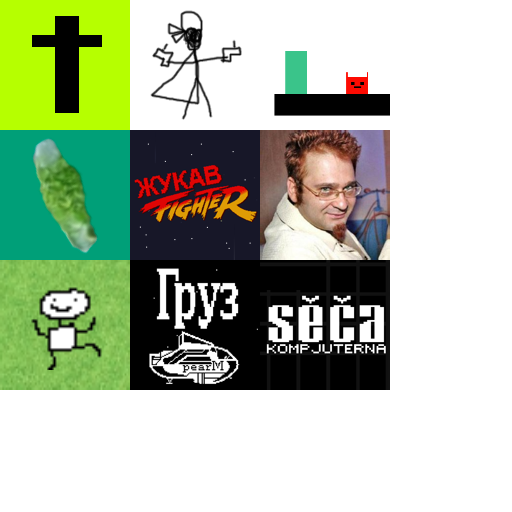
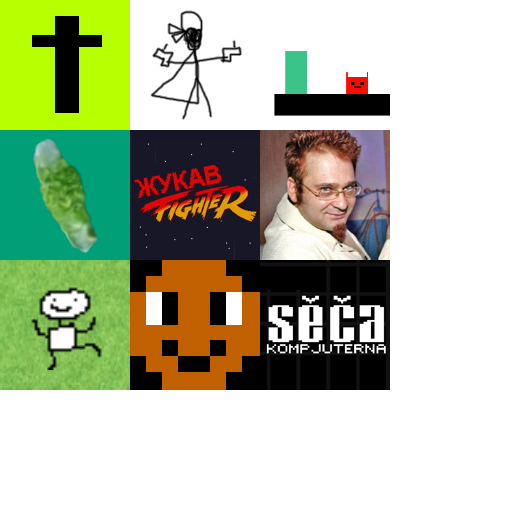
nunu

Changed region(s): [[0.25, 0.5, 0.5312, 0.7812]]

diff --git a/zhukarcade/data.js b/zhukarcade/data.js
@@ -1,1 +1,1 @@
-{"project": [null,"Layout 1",[[0,true,false,false,false,false,false,false,false,false],[1,true,false,false,false,false,false,false,false,false],[2,false,true,true,true,true,true,true,true,false]],[["t0",2,false,[],1,0,null,[["Default",5,false,1,0,false,8729553413497399,[["images/black-sheet0.png",155,0,0,250,250,1,0.5,0.5,[],[],4]]]],[["Fade",3,7585447175772735]],false,false,7387607240222709,[],null],["t1",2,false,[5264834202259024],0,0,null,[["Default",5,false,1,0,false,7266523906679442,[["images/logo-sheet0.png",10182,0,0,693,76,1,0.5007215142250061,0.5,[],[],0]]]],[],false,false,3768893213110195,[],null],["t2",2,false,[7465671858647733],0,0,null,[["Default",0,false,1,0,false,9752546712139465,[["images/button-sheet0.png",112195,1,1,128,128,1,0.5,0.5,[],[],0],["images/button-sheet0.png",112195,131,1,128,128,1,0.5,0.5,[],[],0],["images/button-sheet0.png",112195,261,1,128,128,1,0.5,0.5,[],[],0],["images/button-sheet0.png",112195,1,131,128,128,1,0.5,0.5,[],[],0],["images/button-sheet0.png",112195,131,131,128,128,1,0.5,0.5,[],[],0],["images/button-sheet0.png",112195,261,131,128,128,1,0.5,0.5,[],[],0],["images/button-sheet0.png",112195,1,261,128,128,1,0.5,0.5,[],[],0],["images/button-sheet0.png",112195,131,261,128,128,1,0.5,0.5,[],[],0],["images/button-sheet0.png",112195,261,261,128,128,1,0.5,0.5,[],[],0],["images/button-sheet1.png",64617,1,1,128,128,1,0.5,0.5,[],[],0],["images/button-sheet1.png",64617,131,1,128,128,1,0.5,0.5,[],[],0],["images/button-sheet1.png",64617,261,1,128,128,1,0.5,0.5,[],[-0.4296875,-0.4296875,0,-0.5,0.4296879768371582,-0.4296875,0.5,0,0.4296879768371582,0.4296879768371582,0,0.5,-0.4296875,0.4296879768371582,-0.5,0],0],["images/button-sheet1.png",64617,1,131,128,128,1,0.5,0.5,[],[-0.4296875,-0.4296875,0,-0.5,0.4296879768371582,-0.4296875,0.5,0,0.4296879768371582,0.4296879768371582,0,0.5,-0.4296875,0.4296879768371582,-0.5,0],0],["images/button-sheet1.png",64617,131,131,128,128,1,0.5,0.5,[],[-0.4296875,-0.4296875,0,-0.5,0.4296879768371582,-0.4296875,0.5,0,0.4296879768371582,0.4296879768371582,0,0.5,-0.4296875,0.4296879768371582,-0.5,0],0]]]],[],false,false,9980455744818507,[],null],["t3",0,false,[],0,0,null,null,[],false,false,3950556047889374,[],null,[1]],["t4",1,false,[],0,0,null,null,[],false,false,1058401059279333,[],null,[]],["t5",2,false,[],0,0,null,[["Default",5,false,1,0,false,129155538360011,[["images/sprite-sheet0.png",368710,0,0,512,384,1,0.5,0.5,[],[],1]]]],[],false,false,1081738395218617,[],null]],[],[["Layout 1",1024,1024,true,"Event sheet 1",1530669330642996,[["Layer 0",0,3330524870586053,true,[0,0,0],false,1,1,1,false,false,1,0,0,[[[512,96,0,693,76,0,0,1,0.5007215142250061,0.5,0,0,[]],1,1,[[0]],[],[0,"Default",0,1]],[[192,224,0,96,96,0,0,1,0.5,0.5,0,0,[]],2,2,[["https://ashesandburden.netlify.com"]],[],[0,"Default",0,1]],[[320,224,0,96,96,0,0,1,0.5,0.5,0,0,[]],2,3,[["https://sircowboy.netlify.com"]],[],[0,"Default",1,1]],[[448,224,0,96,96,0,0,1,0.5,0.5,0,0,[]],2,4,[["https://platformer1.netlify.com/"]],[],[0,"Default",2,1]],[[576,224,0,96,96,0,0,1,0.5,0.5,0,0,[]],2,5,[["https://virtulitee.netlify.com/"]],[],[0,"Default",3,1]],[[704,224,0,96,96,0,0,1,0.5,0.5,0,0,[]],2,6,[["https://zhukfighter.netlify.com"]],[],[0,"Default",4,1]],[[832,224,0,96,96,0,0,1,0.5,0.5,0,0,[]],2,7,[["https://trah.netlify.com/"]],[],[0,"Default",5,1]],[[192,352,0,96,96,0,0,1,0.5,0.5,0,0,[]],2,8,[["https://debils.netlify.com/"]],[],[0,"Default",6,1]],[[320,352,0,96,96,0,0,1,0.5,0.5,0,0,[]],2,9,[["https://competent-meninsky-d45b45.netlify.com/"]],[],[0,"Default",7,1]],[[448,352,0,96,96,0,0,1,0.5,0.5,0,0,[]],2,12,[["http://ddnvd.ru/secha/"]],[],[0,"Default",8,1]],[[576,352,0,96,96,0,0,1,0.5,0.5,0,0,[]],2,13,[["http://ddnvd.ru/sas/"]],[],[0,"Default",9,1]],[[512,864,0,384,288,0,0,1,0.5,0.5,0,0,[]],5,14,[],[],[1,"Default",0,1]],[[704,352,0,96,96,0,0,1,0.5,0.5,0,0,[]],2,15,[["http://ddnvd.ru/chinese/"]],[],[0,"Default",10,1]],[[832,352,0,96,96,0,0,1,0.5,0.5,0,0,[]],2,16,[["http://ddnvd.ru/rmg/"]],[],[0,"Default",11,1]],[[192,480,0,96,96,0,0,1,0.5,0.5,0,0,[]],2,17,[["http://ddnvd.ru/aabo/"]],[],[0,"Default",12,1]],[[320,480,0,96,96,0,0,1,0.5,0.5,0,0,[]],2,18,[["http://ddnvd.ru/shobaka/"]],[],[0,"Default",13,1]]],[]],["Layer 1",1,8749605358381316,true,[255,255,255],true,1,1,1,false,false,1,0,0,[[[515,515,0,1024,1024,0,0,1,0.5,0.5,0,0,[]],0,0,[],[[1,0,0,1,1]],[0,"Default",0,1]]],[]]],[],[]]],[["Event sheet 1",[[0,null,false,null,6743612669005715,[[3,4,null,1,false,false,false,1880414996016881,false,[[4,2]]]],[[4,5,null,4786341105401476,false,[[1,[21,2,true,null,0]],[3,0]]]]],[0,null,false,null,2494595899420115,[[3,4,null,1,false,false,false,8036022015270609,false,[[4,1]]]],[[1,6,null,493753392889241,false,[[10,0],[7,[0,1]]]]]],[0,null,false,null,2414228189421093,[[1,7,null,0,false,false,false,4525638202724129,false,[[10,0],[8,0],[7,[0,13]]]]],[[1,6,null,152056757639573,false,[[10,0],[7,[0,1]]]],[5,8,null,4306711313903181,false,[[3,1]]]]]]]],[],"media/",false,1024,1024,4,true,true,true,"1.1",true,false,2,0,19,false,true,1,true,"zhuk arcade",0,[]]}
+{"project": [null,"Layout 1",[[0,true,false,false,false,false,false,false,false,false],[1,true,false,false,false,false,false,false,false,false],[2,false,true,true,true,true,true,true,true,false]],[["t0",2,false,[],1,0,null,[["Default",5,false,1,0,false,8729553413497399,[["images/black-sheet0.png",155,0,0,250,250,1,0.5,0.5,[],[],4]]]],[["Fade",3,7585447175772735]],false,false,7387607240222709,[],null],["t1",2,false,[5264834202259024],0,0,null,[["Default",5,false,1,0,false,7266523906679442,[["images/logo-sheet0.png",10182,0,0,693,76,1,0.5007215142250061,0.5,[],[],0]]]],[],false,false,3768893213110195,[],null],["t2",2,false,[7465671858647733],0,0,null,[["Default",0,false,1,0,false,9752546712139465,[["images/button-sheet0.png",105800,1,1,128,128,1,0.5,0.5,[],[],0],["images/button-sheet0.png",105800,131,1,128,128,1,0.5,0.5,[],[],0],["images/button-sheet0.png",105800,261,1,128,128,1,0.5,0.5,[],[],0],["images/button-sheet0.png",105800,1,131,128,128,1,0.5,0.5,[],[],0],["images/button-sheet0.png",105800,131,131,128,128,1,0.5,0.5,[],[],0],["images/button-sheet0.png",105800,261,131,128,128,1,0.5,0.5,[],[],0],["images/button-sheet0.png",105800,1,261,128,128,1,0.5,0.5,[],[],0],["images/button-sheet0.png",105800,131,261,128,128,1,0.5,0.5,[],[-0.3828125,-0.3828125,0,-0.5,0.3671875,-0.3671875,0.5,0,0.3671875,0.3671875,0,0.5,-0.3671875,0.3671875,-0.5,0],0],["images/button-sheet0.png",105800,261,261,128,128,1,0.5,0.5,[],[],0],["images/button-sheet1.png",64617,1,1,128,128,1,0.5,0.5,[],[],0],["images/button-sheet1.png",64617,131,1,128,128,1,0.5,0.5,[],[],0],["images/button-sheet1.png",64617,261,1,128,128,1,0.5,0.5,[],[-0.4296875,-0.4296875,0,-0.5,0.4296879768371582,-0.4296875,0.5,0,0.4296879768371582,0.4296879768371582,0,0.5,-0.4296875,0.4296879768371582,-0.5,0],0],["images/button-sheet1.png",64617,1,131,128,128,1,0.5,0.5,[],[-0.4296875,-0.4296875,0,-0.5,0.4296879768371582,-0.4296875,0.5,0,0.4296879768371582,0.4296879768371582,0,0.5,-0.4296875,0.4296879768371582,-0.5,0],0],["images/button-sheet1.png",64617,131,131,128,128,1,0.5,0.5,[],[-0.4296875,-0.4296875,0,-0.5,0.4296879768371582,-0.4296875,0.5,0,0.4296879768371582,0.4296879768371582,0,0.5,-0.4296875,0.4296879768371582,-0.5,0],0]]]],[],false,false,9980455744818507,[],null],["t3",0,false,[],0,0,null,null,[],false,false,3950556047889374,[],null,[1]],["t4",1,false,[],0,0,null,null,[],false,false,1058401059279333,[],null,[]],["t5",2,false,[],0,0,null,[["Default",5,false,1,0,false,129155538360011,[["images/sprite-sheet0.png",368710,0,0,512,384,1,0.5,0.5,[],[],1]]]],[],false,false,1081738395218617,[],null]],[],[["Layout 1",1024,1024,true,"Event sheet 1",1530669330642996,[["Layer 0",0,3330524870586053,true,[0,0,0],false,1,1,1,false,false,1,0,0,[[[512,96,0,693,76,0,0,1,0.5007215142250061,0.5,0,0,[]],1,1,[[0]],[],[0,"Default",0,1]],[[192,224,0,96,96,0,0,1,0.5,0.5,0,0,[]],2,2,[["https://ashesandburden.netlify.com"]],[],[0,"Default",0,1]],[[320,224,0,96,96,0,0,1,0.5,0.5,0,0,[]],2,3,[["https://sircowboy.netlify.com"]],[],[0,"Default",1,1]],[[448,224,0,96,96,0,0,1,0.5,0.5,0,0,[]],2,4,[["https://platformer1.netlify.com/"]],[],[0,"Default",2,1]],[[576,224,0,96,96,0,0,1,0.5,0.5,0,0,[]],2,5,[["https://virtulitee.netlify.com/"]],[],[0,"Default",3,1]],[[704,224,0,96,96,0,0,1,0.5,0.5,0,0,[]],2,6,[["https://zhukfighter.netlify.com"]],[],[0,"Default",4,1]],[[832,224,0,96,96,0,0,1,0.5,0.5,0,0,[]],2,7,[["https://trah.netlify.com/"]],[],[0,"Default",5,1]],[[192,352,0,96,96,0,0,1,0.5,0.5,0,0,[]],2,8,[["https://debils.netlify.com/"]],[],[0,"Default",6,1]],[[320,352,0,96,96,0,0,1,0.5,0.5,0,0,[]],2,9,[["https://ddnvd.ru/kalobok"]],[],[0,"Default",7,1]],[[448,352,0,96,96,0,0,1,0.5,0.5,0,0,[]],2,12,[["http://ddnvd.ru/secha/"]],[],[0,"Default",8,1]],[[576,352,0,96,96,0,0,1,0.5,0.5,0,0,[]],2,13,[["http://ddnvd.ru/sas/"]],[],[0,"Default",9,1]],[[512,864,0,384,288,0,0,1,0.5,0.5,0,0,[]],5,14,[],[],[1,"Default",0,1]],[[704,352,0,96,96,0,0,1,0.5,0.5,0,0,[]],2,15,[["http://ddnvd.ru/chinese/"]],[],[0,"Default",10,1]],[[832,352,0,96,96,0,0,1,0.5,0.5,0,0,[]],2,16,[["http://ddnvd.ru/rmg/"]],[],[0,"Default",11,1]],[[192,480,0,96,96,0,0,1,0.5,0.5,0,0,[]],2,17,[["http://ddnvd.ru/aabo/"]],[],[0,"Default",12,1]],[[320,480,0,96,96,0,0,1,0.5,0.5,0,0,[]],2,18,[["http://ddnvd.ru/shobaka/"]],[],[0,"Default",13,1]]],[]],["Layer 1",1,8749605358381316,true,[255,255,255],true,1,1,1,false,false,1,0,0,[[[515,515,0,1024,1024,0,0,1,0.5,0.5,0,0,[]],0,0,[],[[1,0,0,1,1]],[0,"Default",0,1]]],[]]],[],[]]],[["Event sheet 1",[[0,null,false,null,6743612669005715,[[3,4,null,1,false,false,false,1880414996016881,false,[[4,2]]]],[[4,5,null,4786341105401476,false,[[1,[21,2,true,null,0]],[3,0]]]]],[0,null,false,null,2494595899420115,[[3,4,null,1,false,false,false,8036022015270609,false,[[4,1]]]],[[1,6,null,493753392889241,false,[[10,0],[7,[0,1]]]]]],[0,null,false,null,2414228189421093,[[1,7,null,0,false,false,false,4525638202724129,false,[[10,0],[8,0],[7,[0,13]]]]],[[1,6,null,152056757639573,false,[[10,0],[7,[0,1]]]],[5,8,null,4306711313903181,false,[[3,1]]]]]]]],[],"media/",false,1024,1024,4,true,true,true,"1.1",true,false,2,0,19,false,true,1,true,"zhuk arcade",0,[]]}
